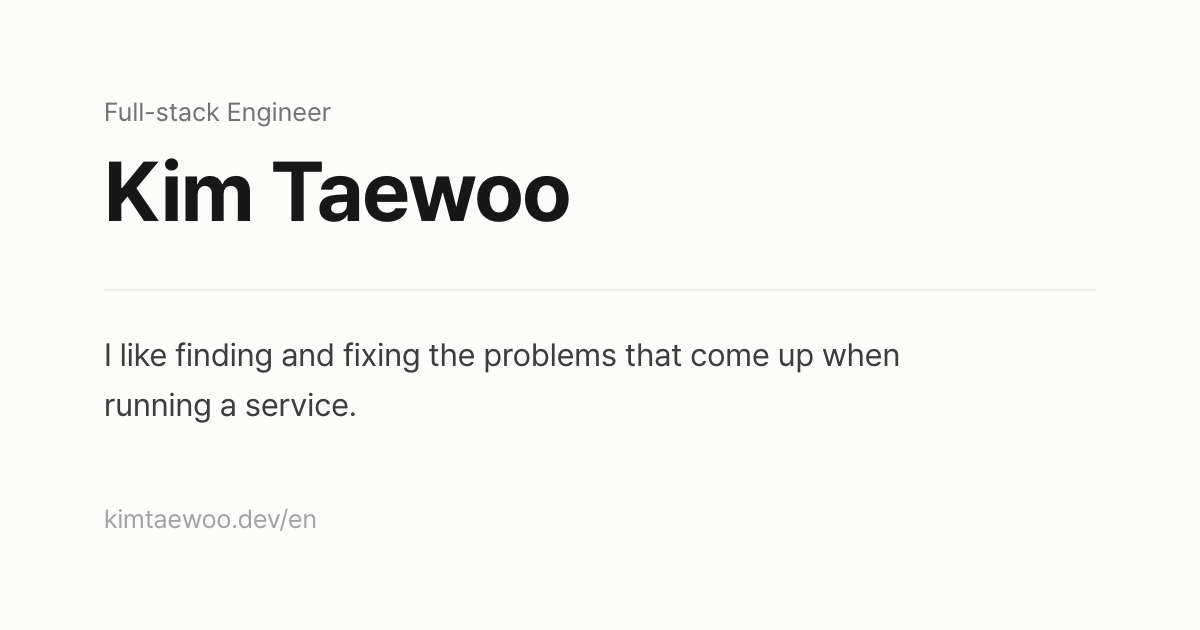
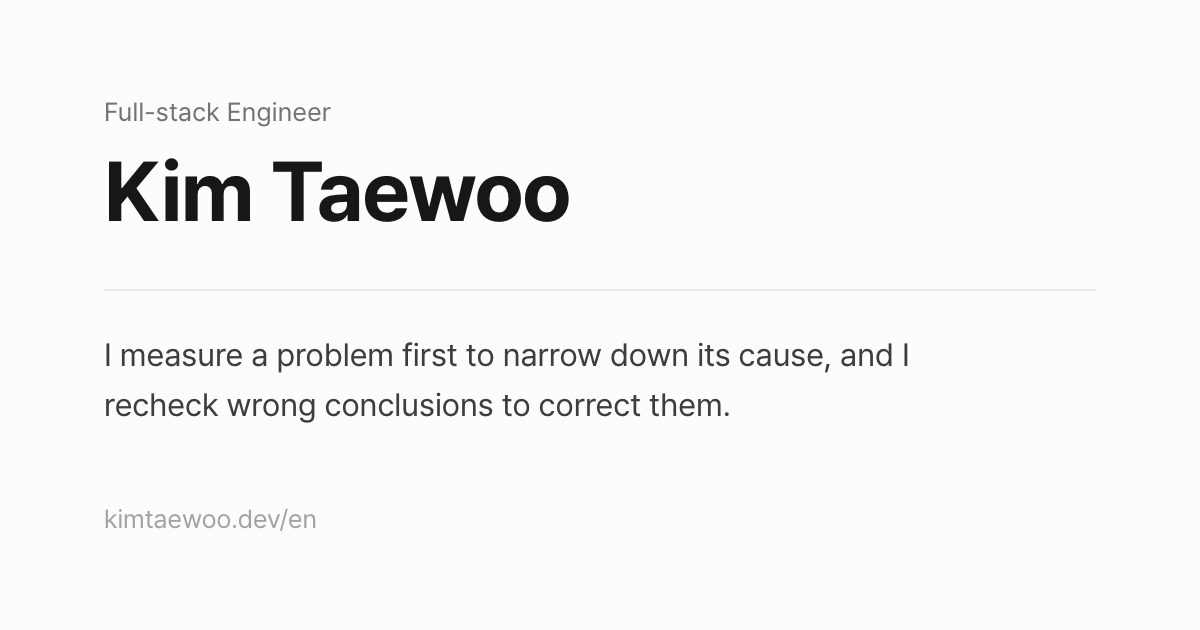
첫 화면 소개글을 이력서 머리말과 같은 뜻으로 바꿈
meta, og, twitter 설명과 링크 미리보기 이미지(og.png, og-en.png)의 옛 문장도 함께 바꿨다.
AI 에이전트와 일하는 환경 문장은 History 카드와 이어져 남겼다.

Changed region(s): [[0.0925, 0.5429, 0.7708, 0.6032], [0.0925, 0.6333, 0.6167, 0.6635]]

diff --git a/index.html b/index.html
@@ -3,7 +3,7 @@
   <head>
     <meta charset="UTF-8" />
     <meta name="viewport" content="width=device-width, initial-scale=1" />
-    <meta name="description" content="풀스택 개발자 김태우의 포트폴리오. 운영하면서 생기는 문제를 찾아 고치는 일을 좋아합니다." />
+    <meta name="description" content="풀스택 개발자 김태우의 포트폴리오. 문제를 먼저 재서 원인을 좁히고, 틀린 결론은 다시 확인해 바로잡습니다." />
     <meta name="theme-color" media="(prefers-color-scheme: light)" content="#fcfcfb" />
     <meta name="theme-color" media="(prefers-color-scheme: dark)" content="#111111" />
     <script>
@@ -20,7 +20,7 @@
     <meta property="og:type" content="website" />
     <meta property="og:site_name" content="Kim Taewoo" />
     <meta property="og:title" content="김태우 | 풀스택 개발자" />
-    <meta property="og:description" content="운영하면서 생기는 문제를 찾아 고치는 일을 좋아합니다." />
+    <meta property="og:description" content="문제를 먼저 재서 원인을 좁히고, 틀린 결론은 다시 확인해 바로잡습니다." />
     <meta property="og:url" content="https://kimtaewoo.dev/" />
     <meta property="og:image" content="https://kimtaewoo.dev/og.png" />
     <meta property="og:image:width" content="1200" />

diff --git a/src/data.ts b/src/data.ts
@@ -17,9 +17,9 @@ export const site = {
 
 export const hero = {
   tagline: [
-    "운영하면서 생기는 문제를 찾아 고치는 일을 좋아합니다.",
-    "대학 스포츠 응원 서비스 Hufscheer에서는 실시간 응원(WebSocket), 배포와 장애 대응을,",
-    "버즈앤비에서는 Vling의 프론트엔드를 맡고 있습니다.",
+    "문제를 먼저 재서 원인을 좁히고, 틀린 결론은 다시 확인해 바로잡습니다.",
+    "버즈앤비 Vling에서는 검색 화면을,",
+    "대학 스포츠 응원 서비스 Hufscheer에서는 실시간 응원 서버와 배포를 맡고 있습니다.",
     "AI 에이전트와 일하는 환경과 규칙도 직접 만들어 씁니다.",
   ],
 };
@@ -601,5 +601,5 @@ export const ui = {
   langLinkHref: "/en/",
   resumeFilename: "김태우_이력서.pdf",
   docTitle: "김태우 | 풀스택 개발자",
-  description: "풀스택 개발자 김태우의 포트폴리오. 운영하면서 생기는 문제를 찾아 고치는 일을 좋아합니다.",
+  description: "풀스택 개발자 김태우의 포트폴리오. 문제를 먼저 재서 원인을 좁히고, 틀린 결론은 다시 확인해 바로잡습니다.",
 };

diff --git a/src/data.en.ts b/src/data.en.ts
@@ -17,9 +17,9 @@ export const site = {
 
 export const hero = {
   tagline: [
-    "I like finding and fixing the problems that come up when running a service.",
-    "I handle live cheering (WebSocket), deployment and incident response for Hufscheer, a live cheering service for university sports,",
-    "and the frontend of Vling at Buzz & Beyond.",
+    "I measure a problem first to narrow down its cause, and I recheck wrong conclusions to correct them.",
+    "I work on the search pages of Vling at Buzz & Beyond,",
+    "and the live cheering server and deployment of Hufscheer, a live cheering service for university sports.",
     "I also build my own setup and rules for working with AI agents.",
   ],
 };
@@ -557,5 +557,5 @@ export const ui = {
   langLinkHref: "/",
   resumeFilename: "Kim_Taewoo_Resume_ko.pdf",
   docTitle: "Kim Taewoo | Full-stack Engineer",
-  description: "Portfolio of Kim Taewoo, a full-stack engineer. I like finding and fixing the problems that come up when running a service.",
+  description: "Portfolio of Kim Taewoo, a full-stack engineer. I measure a problem first to narrow down its cause, and I recheck wrong conclusions to correct them.",
 };

diff --git a/scripts/og/card.html b/scripts/og/card.html
@@ -20,8 +20,8 @@
 </div>
 <script>
   const T = {
-    ko: { label: "풀스택 개발자", name: "김태우", line: "운영하면서 생기는 문제를 찾아 고치는 일을 좋아합니다.", url: "kimtaewoo.dev" },
-    en: { label: "Full-stack Engineer", name: "Kim Taewoo", line: "I like finding and fixing the problems that come up when running a service.", url: "kimtaewoo.dev/en" },
+    ko: { label: "풀스택 개발자", name: "김태우", line: "문제를 먼저 재서 원인을 좁히고, 틀린 결론은 다시 확인해 바로잡습니다.", url: "kimtaewoo.dev" },
+    en: { label: "Full-stack Engineer", name: "Kim Taewoo", line: "I measure a problem first to narrow down its cause, and I recheck wrong conclusions to correct them.", url: "kimtaewoo.dev/en" },
   }[new URLSearchParams(location.search).get("lang") || "ko"];
   for (const k in T) document.getElementById(k).textContent = T[k];
 </script></body></html>
